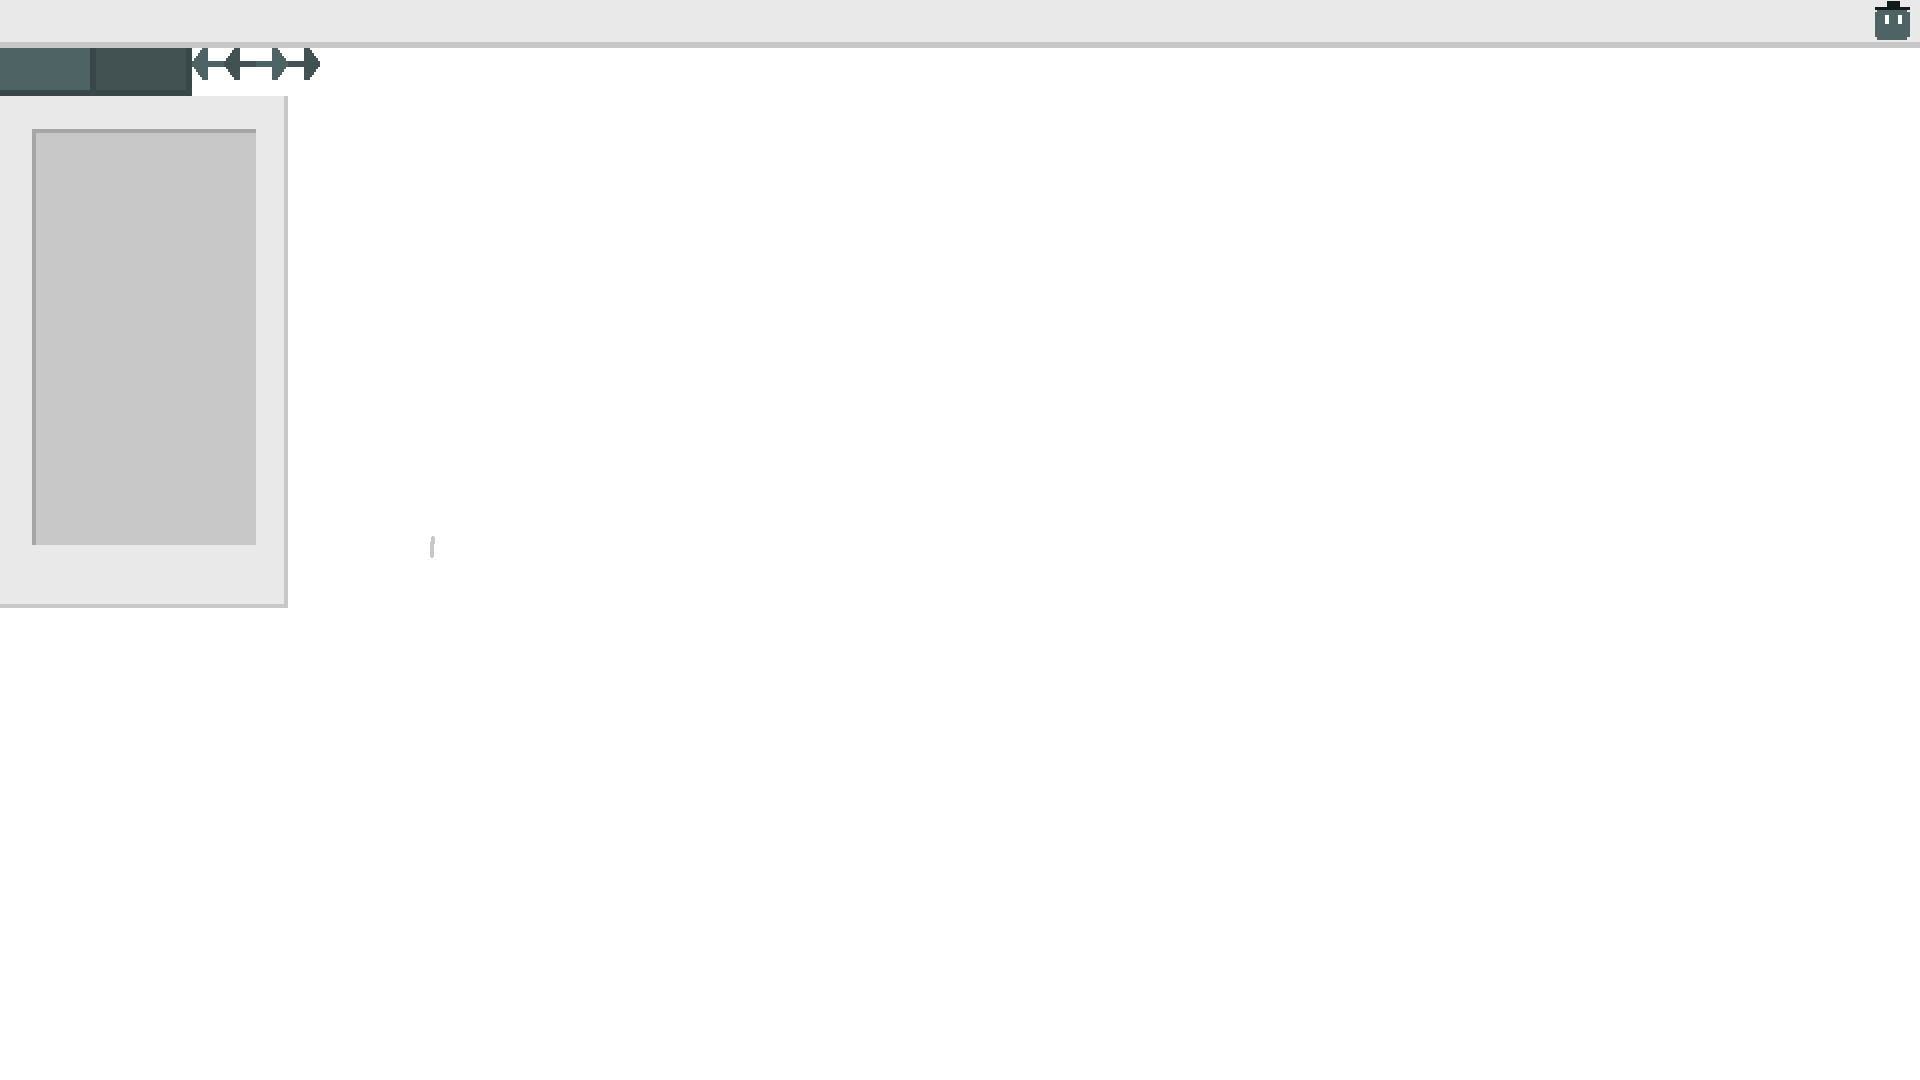
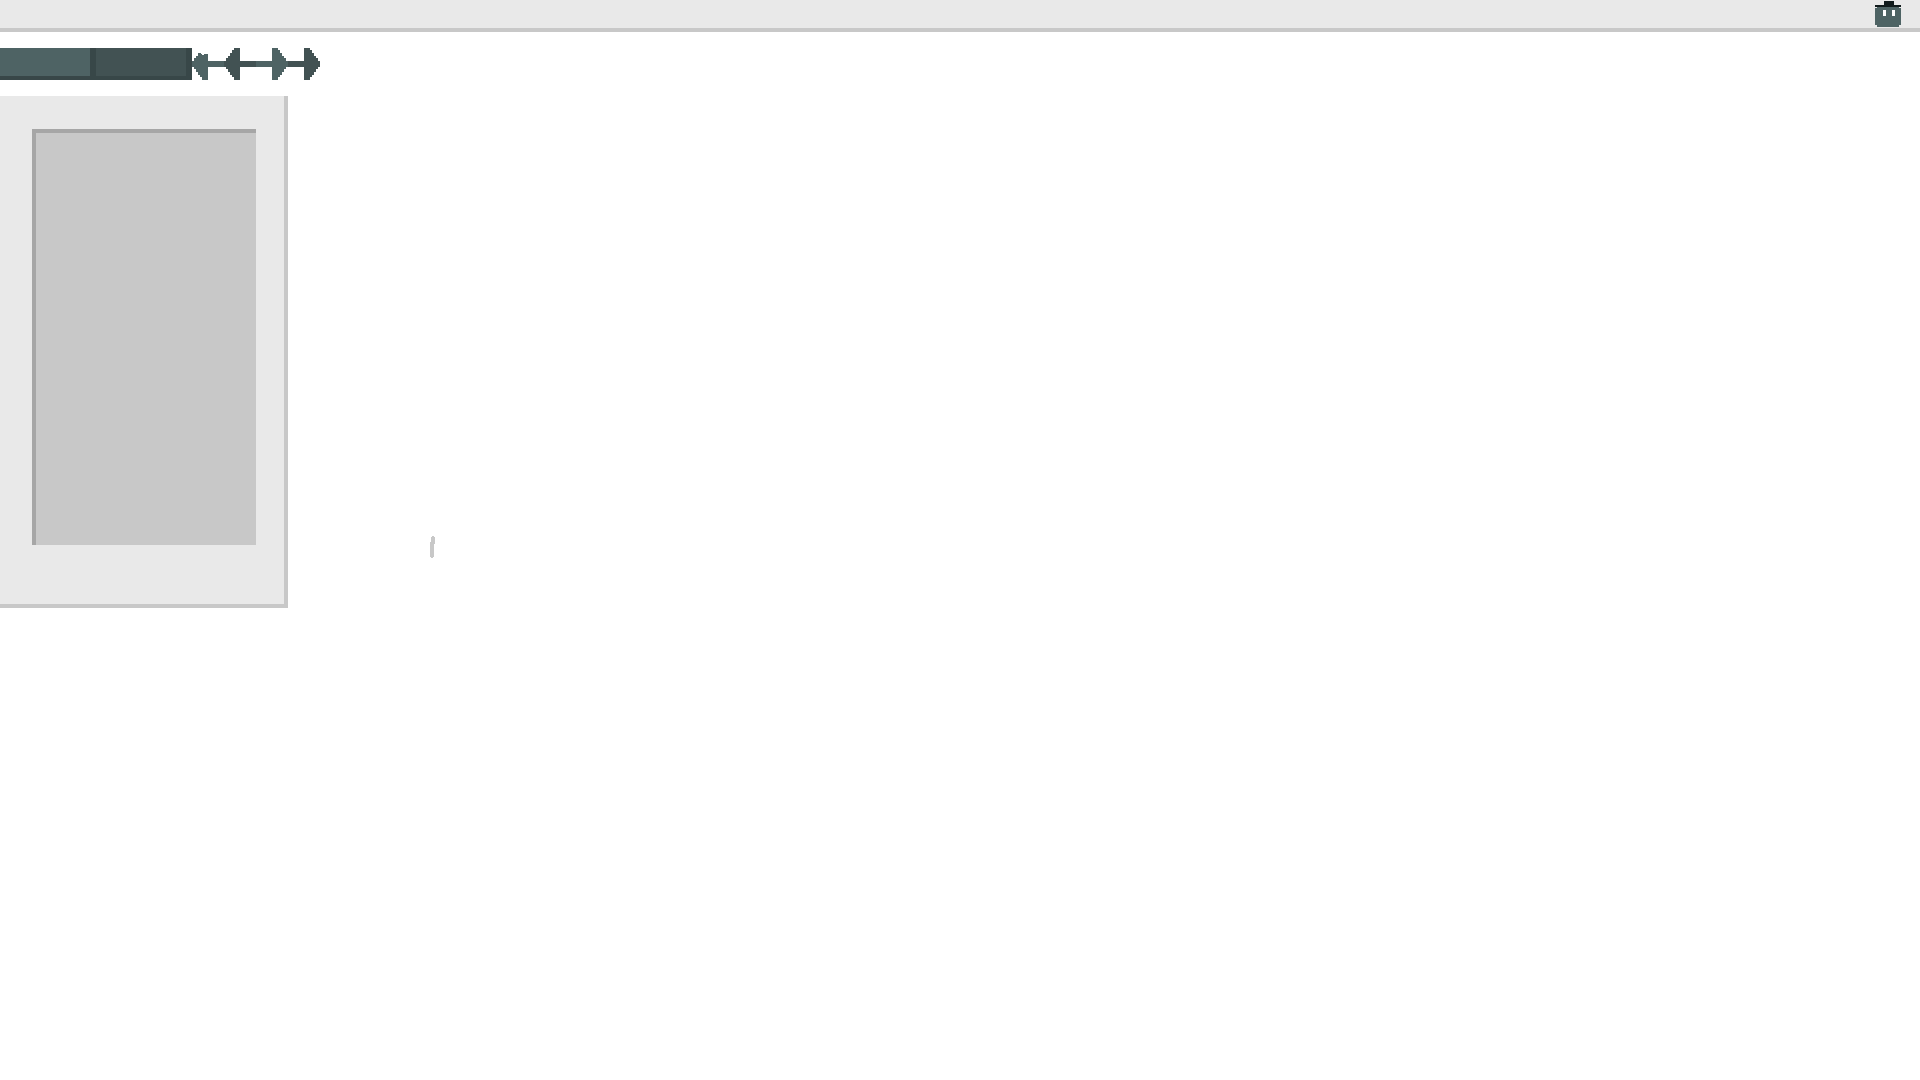
undo drawing

Changed region(s): [[0.0, 0.0, 1.0, 0.0917]]

diff --git a/Game1.cs b/Game1.cs
@@ -13,8 +13,8 @@ namespace tile_mapper
         private SpriteBatch _spriteBatch;
 
         // Specify your map size.
-        int MAP_WIDTH = 512;
-        int MAP_HEIGHT = 512;
+        int MAP_WIDTH = 256;
+        int MAP_HEIGHT = 256;
         int TILE_SIZE = 16;
         GridTile[,] GridMap;
         Texture2D Grid;
@@ -22,7 +22,7 @@ namespace tile_mapper
         Texture2D UI;
         float Scale = 1f;
         float OriginalScrollWheelValue = 0f;
-        float MoveSpeed = 256f;
+        float MoveSpeed = 512;
         Vector2 Velocity = Vector2.Zero;
         Vector2 Offset = Vector2.Zero;
         Button NewMap;
@@ -48,12 +48,16 @@ namespace tile_mapper
         List<List<SpriteTile>> TileSpriteList;
         bool HasTileSheet = false;
         MouseState PreviousMouseState;
+        KeyboardState PreviousKeybordState;
         string SaveFilePath;
         string OpenFilePath;
         
+        Stack<UserAction> Actions = new Stack<UserAction>();
 
         int ScreenWidth;
         int ScreenHeight;
+
+        Vector2 ScreenCenter;
 
         int SheetWidth;
         int SheetHeight;
@@ -156,11 +160,12 @@ namespace tile_mapper
 
 
             PreviousMouseState = new MouseState();
+            PreviousKeybordState = new KeyboardState();
 
-            ScreenWidth = 1280;
-            ScreenHeight = 720;
+            ScreenWidth = 1920;
+            ScreenHeight = 1080;
 
-            
+            ScreenCenter = new Vector2(ScreenWidth, ScreenHeight);
 
             _graphics.PreferredBackBufferWidth = ScreenWidth;
             _graphics.PreferredBackBufferHeight = ScreenHeight;
@@ -169,15 +174,15 @@ namespace tile_mapper
             ScaleX = 1f;
             ScaleY = 1f;
 
-            NewMap = new Button("New", new Rectangle(0, 0, 96, 48), 96, 0, ButtonAction.None);
-            LoadMap = new Button("Load", new Rectangle(96, 0, 96, 48), 96, 0, ButtonAction.None);
-            EditMap = new Button("Edit", new Rectangle(96 * 3, 0, 96, 48), 96, 0, ButtonAction.None);
+            NewMap = new Button("New", new Rectangle(0, 0, 96, 32), 96, 0, ButtonAction.None);
+            LoadMap = new Button("Load", new Rectangle(96, 0, 96, 32), 96, 0, ButtonAction.None);
+            EditMap = new Button("Edit", new Rectangle(96 * 3, 0, 96, 32), 96, 0, ButtonAction.None);
             GoLeft = new Button("", new Rectangle(96, ScreenHeight/2 + 256 - 48, 32, 32), 224, 192, ButtonAction.None);
             GoRight = new Button("", new Rectangle(160, ScreenHeight / 2 + 256 - 48, 32, 32), 288, 256, ButtonAction.None);
-            SaveMap = new Button("Save", new Rectangle(96 * 2, 0, 96, 48), 96, 0, ButtonAction.Save);
-            Import = new Button("Import", new Rectangle(96, ScreenHeight / 2 - 24, 96, 48), 96, 0, ButtonAction.Import);
-            Layer = new Button("Layer: " + CurrentLayer.ToString(), new Rectangle(96 * 4, 0, 96, 48), 96, 0, ButtonAction.Layer);
-            Settings = new Button("Settings ", new Rectangle(96 * 5, 0, 96, 48), 96, 0, ButtonAction.None);
+            SaveMap = new Button("Save", new Rectangle(96 * 2, 0, 96, 32), 96, 0, ButtonAction.Save);
+            Import = new Button("Import", new Rectangle(96, ScreenHeight / 2 - 24, 96, 32), 96, 0, ButtonAction.Import);
+            Layer = new Button("Layer: " + CurrentLayer.ToString(), new Rectangle(96 * 4, 0, 96, 32), 96, 0, ButtonAction.Layer);
+            Settings = new Button("Settings ", new Rectangle(96 * 5, 0, 96, 32), 96, 0, ButtonAction.None);
 
             buttons.Add(NewMap);
             buttons.Add(SaveMap);
@@ -263,11 +268,14 @@ namespace tile_mapper
             // User is scrolling (zooming on map)
             if (mouseState.ScrollWheelValue != OriginalScrollWheelValue)
             {
+                Vector2 Center = new Vector2(Offset.X + TILE_SIZE * Scale * MAP_WIDTH , Offset.Y + TILE_SIZE * Scale * MAP_HEIGHT);
                 float adjustment = (mouseState.ScrollWheelValue - OriginalScrollWheelValue) * 0.0004f;
                 // Adjust the scaling factor based on the scroll wheel delta
                 Scale += adjustment;
-                Scale = MathHelper.Clamp(Scale, 0.5f, 5.0f);
+                Scale = MathHelper.Clamp(Scale, 0.5f, 5f);
 
+                Vector2 CenterNew = new Vector2(Offset.X + TILE_SIZE * Scale * MAP_WIDTH, Offset.Y + TILE_SIZE * Scale * MAP_HEIGHT);
+                Offset += ((Center - CenterNew) / 2);
             }
 
             // Calculate mouse X and Y position on the grid.
@@ -316,6 +324,7 @@ namespace tile_mapper
                 {
                     CurrentMap.layers[CurrentLayer].TileMap[SelectedY, SelectedX].ID = selected.ID;
                     CurrentMap.layers[CurrentLayer].TileMap[SelectedY, SelectedX].Source = selected.Source;
+                    Actions.Push(new UserAction(UserAction.ActionType.Draw, CurrentLayer, SelectedX, SelectedY));
                 }
             }
 
@@ -328,11 +337,30 @@ namespace tile_mapper
             if(keyboardState.IsKeyDown(Keys.W))
                 Velocity.Y += (float)(MoveSpeed * gameTime.ElapsedGameTime.TotalSeconds);
 
+            // Undo last action.
+            if(keyboardState.IsKeyDown(Keys.LeftControl) && keyboardState.IsKeyDown(Keys.Z) && !PreviousKeybordState.IsKeyDown(Keys.Z))
+            {
+
+                if(Actions.Count > 0)
+                {
+                    UserAction UndoAction = Actions.Peek();
+
+                    if(UndoAction.Action == UserAction.ActionType.Draw)
+                    {
+                        CurrentMap.layers[CurrentLayer].TileMap[UndoAction.y, UndoAction.x] = new Tile();
+                    }
+
+                    Actions.Pop();
+                }
+            }
+               
+
             Offset += Velocity;
 
             OriginalScrollWheelValue = mouseState.ScrollWheelValue;
 
             PreviousMouseState = mouseState;
+            PreviousKeybordState = keyboardState;
 
             base.Update(gameTime);
         }

diff --git a/Map.cs b/Map.cs
@@ -4,8 +4,25 @@ using Microsoft.Xna.Framework.Graphics;
 
 namespace tile_mapper
 {
-
-    public class SpriteTile
+    internal class UserAction
+    {
+        public ActionType Action;
+        public int x, y, Layer;
+       
+        public UserAction(ActionType action, int layer, int x, int y) 
+        {
+            this.Action = action;
+            this.Layer = layer;
+            this.x = x;
+            this.y = y;
+        }
+        public enum ActionType
+        {
+            Draw,
+            Remove
+        }
+    }
+    internal class SpriteTile
     {
         public Rectangle Destination;
         public Rectangle Source;
